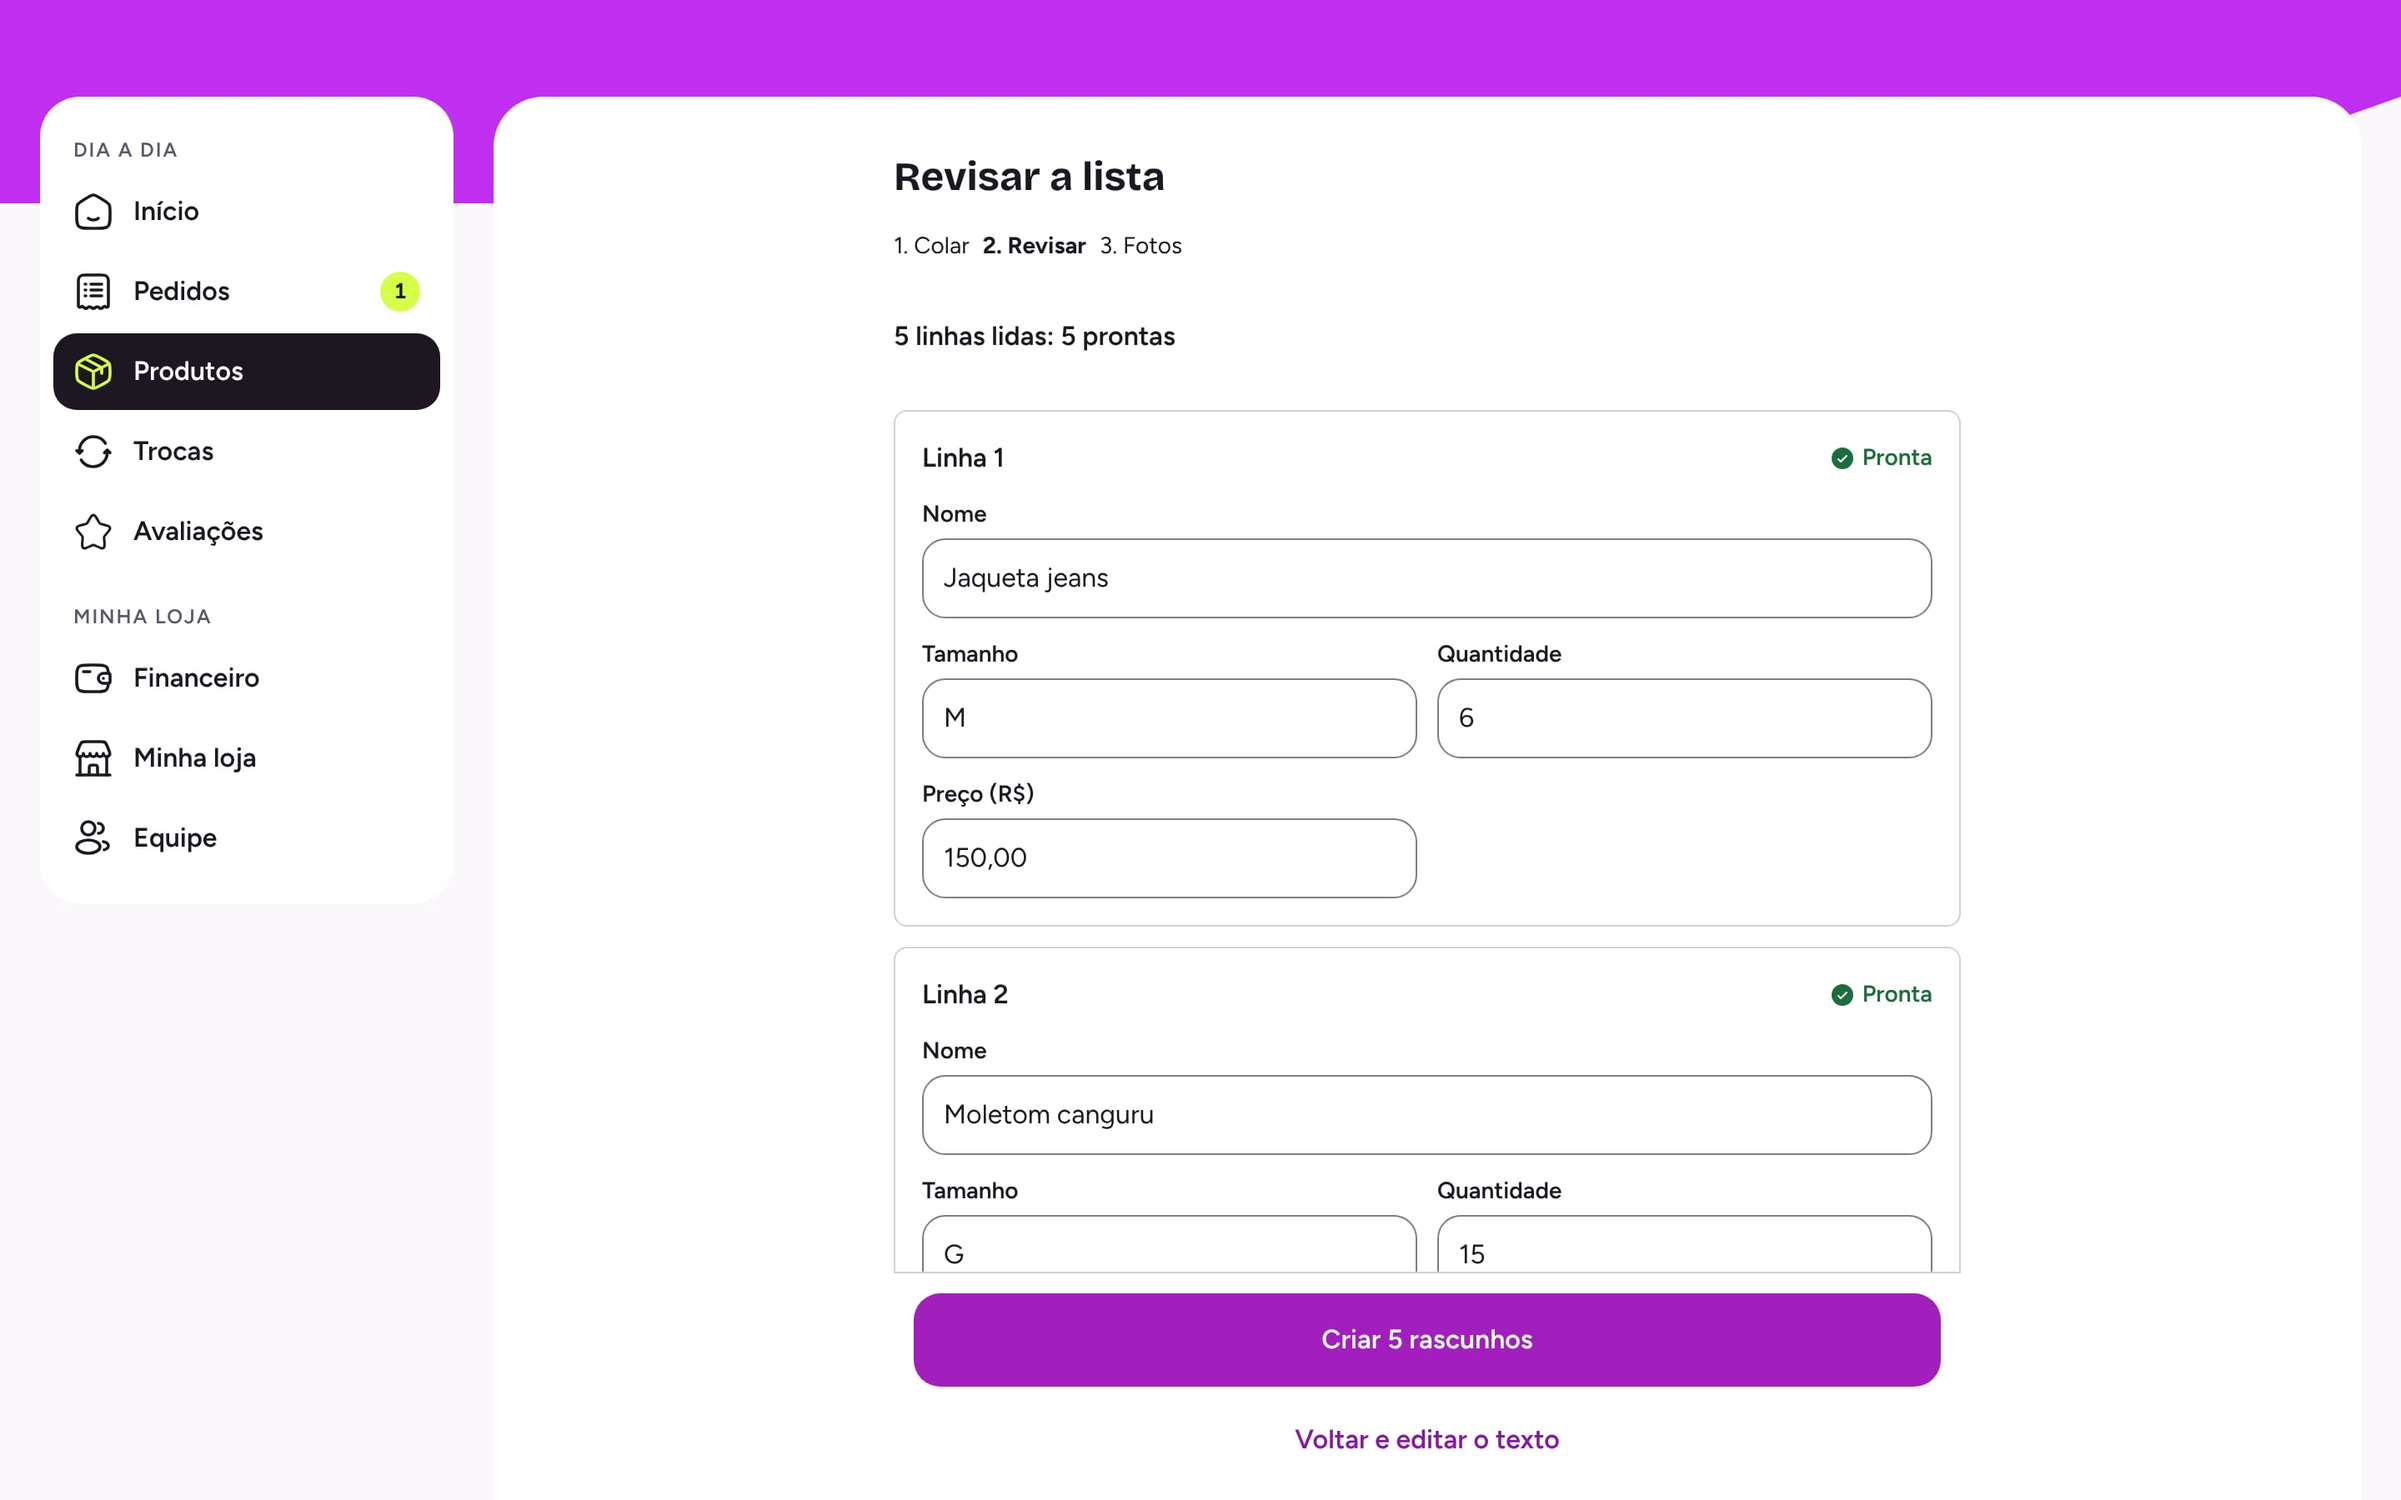
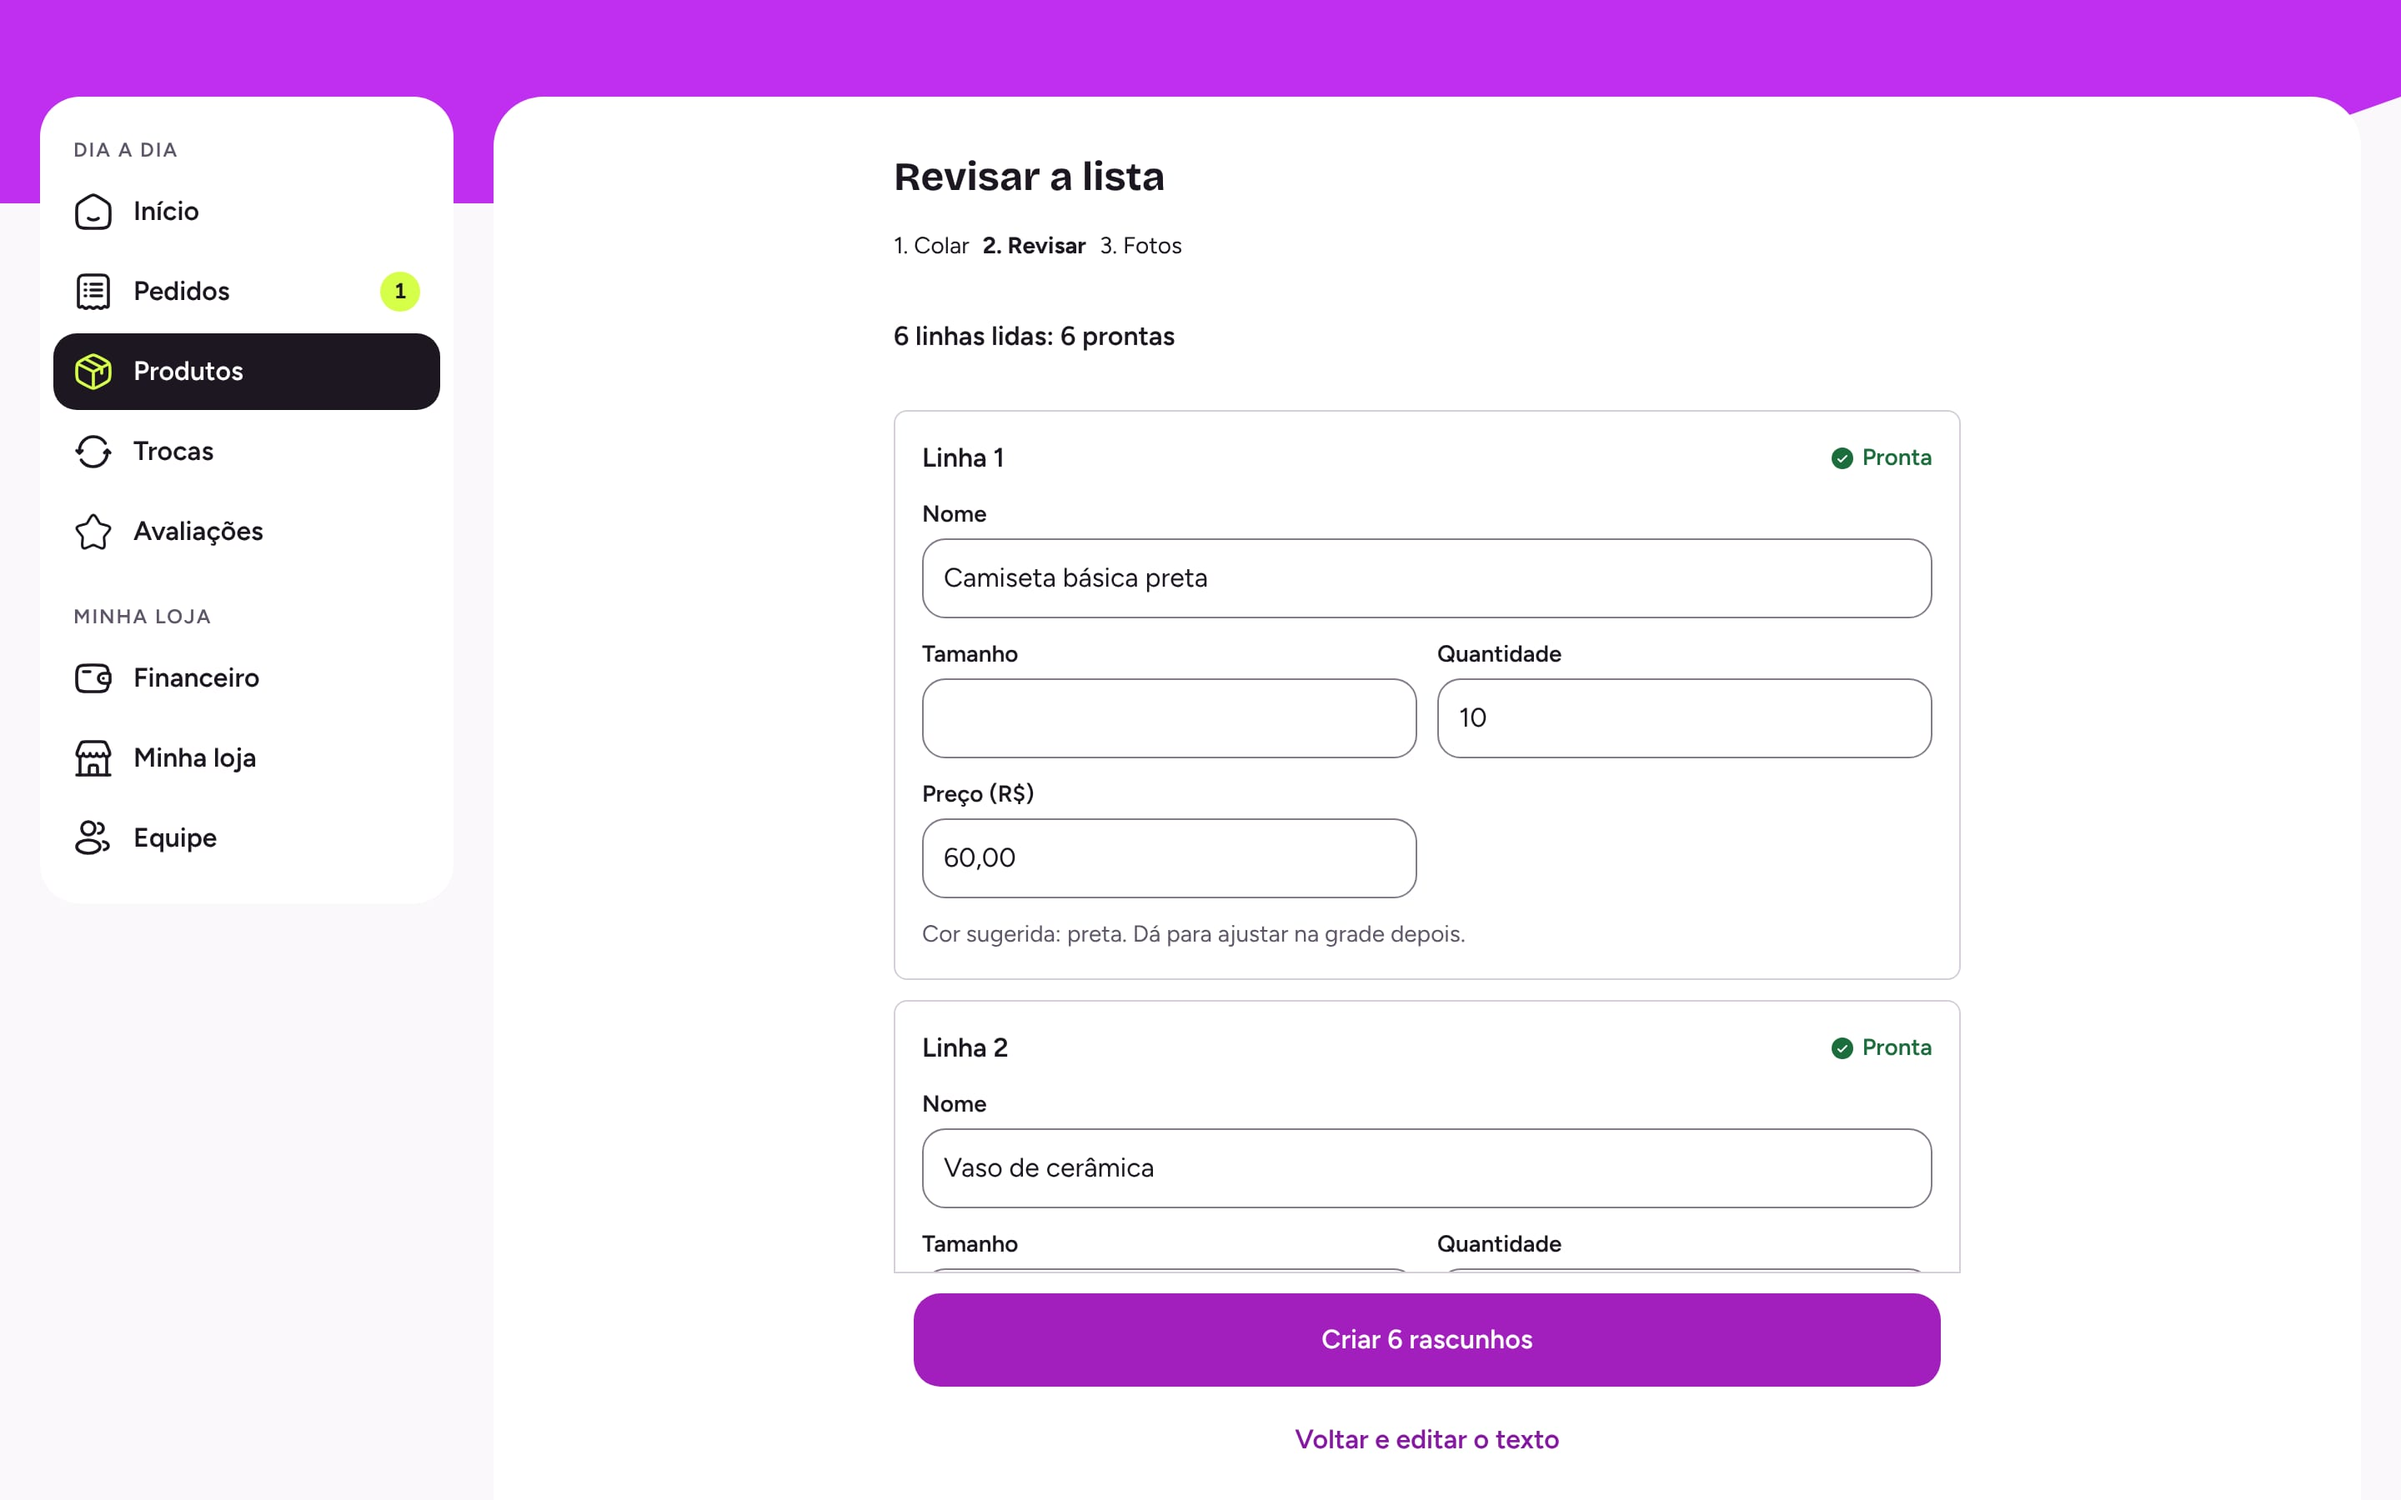
feat(marketing): add paste-list, bulk price adjust and undo captures, align README with the v3 script
Claude-Session: https://claude.ai/code/session_01HrbjdVRZ9qUnhikBmJZ2HA

diff --git a/docs/marketing/src/capturas-v3/README.md b/docs/marketing/src/capturas-v3/README.md
@@ -1,6 +1,6 @@
 # Capturas v3 (app do cliente e painel do lojista)
 
-Capturas reais (a versão web do app e o painel `/lojista`) feitas em 2026-11-25 a 2x, JPG qualidade 82, nenhuma acima de 200 KB. Dados fictícios de lojas de **moda, casa e presentes** (roupa, tênis, vaso, luminária), valores em reais inteiros, nenhum alimento, nenhum CPF, telefone, e-mail ou endereço de cliente. Rótulos "Exemplo" não existem na imagem: são telas de verdade.
+Capturas reais (a versão web do app e o painel `/lojista`) feitas em 2026-11-25 a 2x, JPG qualidade 82, 29 arquivos, nenhum acima de 205 KB. Dados fictícios de lojas de **moda, casa e presentes** (roupa, tênis, vaso, luminária), valores em reais inteiros, nenhum alimento, nenhum CPF, telefone, e-mail ou endereço de cliente. Rótulos "Exemplo" não existem na imagem: são telas de verdade.
 
 Tamanhos: **app** 390x844 pt (780x1688 px); **painel desktop** 1440x900 (2880x1800 px); **painel celular** 390x844 pt (780x1688 px). Só viewport, sem rolagem de página inteira (a rolagem usada está na coluna Estado).
 
@@ -26,10 +26,18 @@ Tamanhos: **app** 390x844 pt (780x1688 px); **painel desktop** 1440x900 (2880x18
 | `painel-pronto-coleta` | `/lojista/pedidos` | Pedido "Pronto para coleta" (R$ 156,00) e o que está com o entregador. Desktop: página rolada 260 px; celular: aba "Prontos" |
 | `painel-produtos-lista` | `/lojista/produtos` | Lista com foto, preço e estoque; Vendendo/Pausado. Desktop rolado 190 px |
 | `painel-cadastro-rapido` | `/lojista/produtos/novo/<id>` | Cadastro rápido com foto enviada, nome "Moletom cinza", preço R$ 100,00, "Você recebe cerca de R$ 80,02" e categoria Roupas (rascunho, não publicado) |
-| `painel-adicionar-varios` | `/lojista/produtos/adicionar-varios` | Lista colada já lida: "5 linhas lidas: 5 prontas", cartões com nome, tamanho, quantidade e preço; botão "Criar 5 rascunhos" (não clicado) |
+| `painel-colar-lista` | `/lojista/produtos/adicionar-varios` | Passo 1 Colar: 6 linhas coladas ("Camiseta básica preta 60,00 - 10 un", vaso, calça, toalha, luminária, tênis), contador "6 linhas" |
+| `painel-adicionar-varios` | idem | Passo 2 Revisar: "6 linhas lidas: 6 prontas", cartões com nome, tamanho, quantidade e preço; botão "Criar 6 rascunhos" (não clicado). Desktop rolado 130 px |
 | `painel-precos-estoque` | `/lojista/produtos/precos` | Tabela de preços e estoque com "Você recebe". Desktop rolado 190 px |
+| `painel-precos-reajuste-previa-desk` | `/lojista/produtos/precos` | 3 produtos selecionados, "Mudar preço" aumentar R$ 5 com prévia (R$ 40,00 para R$ 45,00 etc.). Só desktop; o reajuste é desfeito no fim |
+| `painel-precos-reajuste-desfazer-desk` | idem | Depois de aplicar: "Preços reajustados em 3 produtos. Dá para desfazer por 9:59" com botão Desfazer |
 | `painel-financeiro` | `/lojista/financeiro` (Hoje, aba Resumo) | Vendas R$ 1.350,00, ticket médio R$ 150,00, você recebe R$ 1.133,59, vendas por dia |
 | `painel-extrato` | `/lojista/financeiro` (Hoje, aba Extrato) | Lista do extrato por pedido: vendas, comissão, líquido e situação |
+
+## Correspondência com `docs/marketing/roteiro-apresentacoes-v3.md` §5
+
+O roteiro ficou pronto depois da captura; o que coincide: **A1** `app-loja-vitrine` (6 produtos, preços redondos; sem faixa de tempo só se cortar o topo), **A3/A4** `app-pedido-separando` e `app-pedido-a-caminho` (mostram horário e número do pedido: o designer corta), **P3** `painel-cadastro-rapido-*` (sem a versão "sem Você recebe"), **P4** `painel-colar-lista-*`, **P5** `painel-adicionar-varios-*`, **P7** `painel-produtos-lista-mob` (sem produto pausado nem rascunho), **P8/P9** `painel-precos-reajuste-*-desk`, **P10** `painel-pedido-novo-mob` (card inteiro, com número do pedido: recortar), **P13/P14** `painel-financeiro-*`/`painel-extrato-*` (Hoje: R$ 1.350,00, 9 pedidos, não 5 x R$ 200).
+**Não feito:** A2 (tamanhos esgotados), P1 (onboarding), P6 (passo Fotos), P11 e P12 (detalhe do pedido: traz telefone e endereço do cliente, ver abaixo), P15 (entrega). A loja se chama "Moda Express Franco", não "Loja Exemplo", e as fotos são ilustrações (o roteiro pede foto real).
 
 ## Limites que o designer deve saber
 
